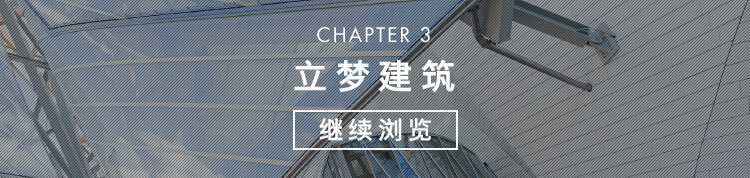
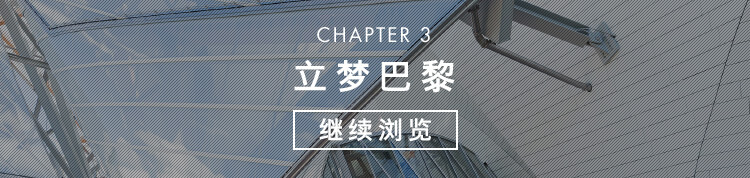
no message

Changed region(s): [[0.4907, 0.3371, 0.6133, 0.5337]]

diff --git a/web/chapter3.html b/web/chapter3.html
@@ -1,7 +1,7 @@
 <!DOCTYPE html>
 <html>
     <head>
-        <title>立梦建筑</title>
+        <title>立梦巴黎</title>
         <meta http-equiv="Content-Type" content="text/html; charset=utf-8">
         <meta name="format-detection" content="telephone=no">
         <!--禁用手机号码链接(for iPhone)-->
